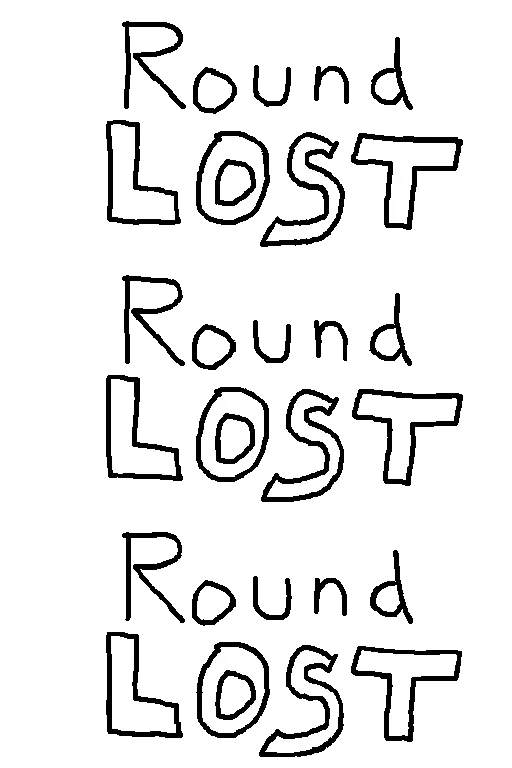
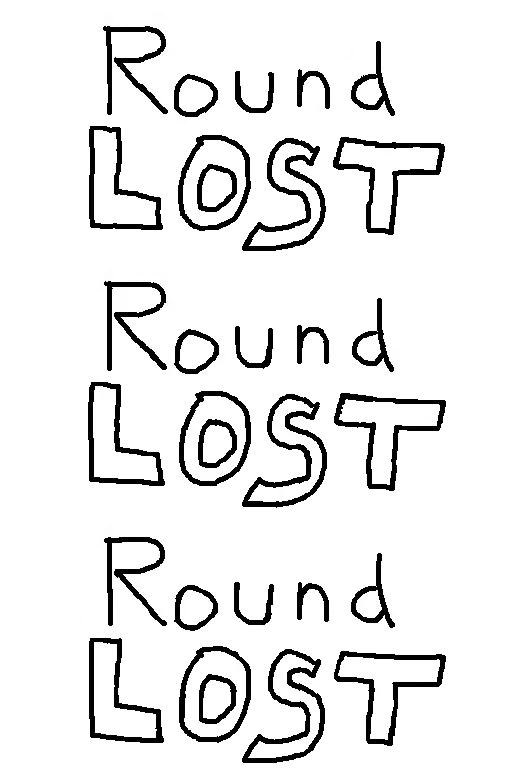
stuff

Changed region(s): [[0.1562, 0.3438, 0.9062, 0.6875], [0.1562, 0.0312, 0.9062, 0.3438], [0.1562, 0.6875, 0.9062, 1.0]]

diff --git a/src/main.js b/src/main.js
@@ -40,7 +40,7 @@ import {
 } from './audio.js';
 import { RankedClient } from './rankedClient.js';
 import { getResourcePresentation, shouldShowPickHistoryForVariant } from './variantPresentation.js';
-import { resolveReadyScene, resolveScene } from './sceneResolver.js';
+import { resolveReadyScene, resolveScene, swapScenePerspective } from './sceneResolver.js';
 import { VARIANT_SELECT_PAGE_SIZE, VARIANT_SELECT_VARIANTS } from './variantSelectConfig.js';
 import {
   DOODLE_FRAME_RATE,
@@ -1886,26 +1886,39 @@ function renderPickHistory(playerId) {
 }
 
 function renderStagePresentation() {
-  if (stagePresentation.kind === 'cue') {
+  if (stagePresentation.kind === 'overlay') {
+    return `
+      <div class="stage-presentation-stack">
+        ${renderSingleStagePresentation(stagePresentation.base)}
+        ${renderSingleStagePresentation(stagePresentation.overlay, 'result-overlay')}
+      </div>
+    `;
+  }
+
+  return renderSingleStagePresentation(stagePresentation);
+}
+
+function renderSingleStagePresentation(presentation, extraClass = '') {
+  if (presentation.kind === 'cue') {
     return `
       <canvas
-        class="sprite-canvas cue-canvas"
-        data-doodle="${stagePresentation.name}"
+        class="sprite-canvas cue-canvas ${extraClass}"
+        data-doodle="${presentation.name}"
         width="${DOODLE_FRAME_WIDTH}"
         height="${DOODLE_FRAME_HEIGHT}"
-        aria-label="${stagePresentation.name}"
+        aria-label="${presentation.name}"
       ></canvas>
     `;
   }
 
   return `
     <canvas
-      class="sprite-canvas doodle-canvas"
-      data-doodle="${stagePresentation.name}"
-      data-flip="${stagePresentation.flip}"
+      class="sprite-canvas doodle-canvas ${extraClass}"
+      data-doodle="${presentation.name}"
+      data-flip="${presentation.flip}"
       width="${DOODLE_FRAME_WIDTH}"
       height="${DOODLE_FRAME_HEIGHT}"
-      aria-label="${stagePresentation.name}"
+      aria-label="${presentation.name}"
     ></canvas>
   `;
 }
@@ -3367,7 +3380,7 @@ function renderMoveButton(move, isLegal) {
   ) && !p1QueuedMove;
 
   return `
-    <button class="move-card ${isQueued ? 'selected' : ''}" data-move="${move.id}" ${isLegal && canChooseMove && state.status === 'playing' && !isTransitioning ? '' : 'disabled'}>
+    <button class="move-card ${isQueued ? 'selected' : ''}" data-move="${move.id}" ${isLegal && canChooseMove && state.status === 'playing' && (!isTransitioning || playMode === 'online') ? '' : 'disabled'}>
       <canvas
         class="sprite-canvas move-button-art"
         data-doodle="${getMoveButtonDoodle(move.id)}"
@@ -4753,12 +4766,16 @@ function commitRankedSnapshot(snapshot, previousPhase = rankedSnapshot?.phase) {
     };
   } else if (snapshot.phase === 'revealed') {
     lastMoves = getLocalMovesFromRankedSnapshot(snapshot);
-    stagePresentation = getVariantStagePresentation(snapshot.round?.lastTurn ?? {}, lastMoves.p1, lastMoves.p2, { variantId: snapshot.currentVariantId ?? snapshot.variantId });
+    stagePresentation = getVariantStagePresentation(getLocalTurnResultFromRankedSnapshot(snapshot), lastMoves.p1, lastMoves.p2, { variantId: snapshot.currentVariantId ?? snapshot.variantId });
   } else if (snapshot.phase === 'roundOver') {
     stagePresentation = {
-      kind: 'doodle',
-      name: getRoundOverDoodle(getLocalRoundWinnerFromRankedSnapshot(snapshot), true),
-      flip: false,
+      kind: 'overlay',
+      base: getInteractionPresentation(stagePresentation),
+      overlay: {
+        kind: 'doodle',
+        name: getRoundOverDoodle(getLocalRoundWinnerFromRankedSnapshot(snapshot), true),
+        flip: false,
+      },
     };
   } else if (snapshot.phase === 'countdown') {
     stagePresentation = { kind: 'cue', name: 'READY' };
@@ -4771,9 +4788,13 @@ function commitRankedSnapshot(snapshot, previousPhase = rankedSnapshot?.phase) {
   } else if (snapshot.phase === 'gameOver') {
     finishMusicLoopThenStop();
     stagePresentation = {
-      kind: 'doodle',
-      name: snapshot.winner === snapshot.playerKey ? 'system_scenes/game_won' : 'system_scenes/game_lost',
-      flip: false,
+      kind: 'overlay',
+      base: getInteractionPresentation(stagePresentation),
+      overlay: {
+        kind: 'doodle',
+        name: snapshot.winner === snapshot.playerKey ? 'system_scenes/game_won' : 'system_scenes/game_lost',
+        flip: false,
+      },
     };
   }
 
@@ -4810,7 +4831,7 @@ function maybePlayRankedRoundResultAudio(snapshot) {
 function getRankedIdleChoosingPresentation(snapshot) {
   if (snapshot.round?.lastTurn) {
     const moves = getLocalMovesFromRankedSnapshot(snapshot);
-    return getVariantStagePresentation(snapshot.round?.lastTurn ?? {}, moves.p1, moves.p2, { variantId: snapshot.currentVariantId ?? snapshot.variantId });
+    return getVariantStagePresentation(getLocalTurnResultFromRankedSnapshot(snapshot), moves.p1, moves.p2, { variantId: snapshot.currentVariantId ?? snapshot.variantId });
   }
 
   return getIdleStagePresentation(snapshot.currentVariantId ?? snapshot.variantId);
@@ -4821,7 +4842,7 @@ function getRankedChoosingPresentation(snapshot) {
     return getIdleStagePresentation(snapshot.currentVariantId ?? snapshot.variantId);
   }
 
-  return getVariantStagePresentation(snapshot.round?.lastTurn ?? {}, lastMoves.p1, lastMoves.p2, { variantId: snapshot.currentVariantId ?? snapshot.variantId });
+  return getVariantStagePresentation(getLocalTurnResultFromRankedSnapshot(snapshot), lastMoves.p1, lastMoves.p2, { variantId: snapshot.currentVariantId ?? snapshot.variantId });
 }
 
 function getLocalStateFromRankedSnapshot(snapshot) {
@@ -4944,6 +4965,16 @@ function getLocalMovesFromRankedSnapshot(snapshot) {
     p1: moves[snapshot.playerKey],
     p2: moves[snapshot.opponentKey],
   };
+}
+
+function getLocalTurnResultFromRankedSnapshot(snapshot) {
+  const result = snapshot.round?.lastTurn ?? {};
+
+  if (snapshot.playerKey !== 'p2') {
+    return result;
+  }
+
+  return swapScenePerspective(result);
 }
 
 function submitRankedMove(moveId) {
@@ -5428,11 +5459,19 @@ function showRoundOverScene() {
   const isRoundOverInComputerFight = playMode === 'local' && screen !== 'tutorial' && !isGameOver();
 
   stagePresentation = {
-    kind: 'doodle',
-    name: getRoundOverDoodle(state.winner, isRoundOverInComputerFight),
-    flip: false,
+    kind: 'overlay',
+    base: getInteractionPresentation(stagePresentation),
+    overlay: {
+      kind: 'doodle',
+      name: getRoundOverDoodle(state.winner, isRoundOverInComputerFight),
+      flip: false,
+    },
   };
   render();
+}
+
+function getInteractionPresentation(presentation) {
+  return presentation?.kind === 'overlay' ? presentation.base : presentation;
 }
 
 function getRoundOverDoodle(winner, useRoundDoodle) {

diff --git a/src/variantSelectConfig.js b/src/variantSelectConfig.js
@@ -6,7 +6,7 @@ export const VARIANT_SELECT_VARIANTS = Object.freeze([
   Object.freeze({
     id: VARIANT_IDS.chargeBlockFireball,
     name: 'Fireball War',
-    buttonDoodle: 'fireball-war_button',
+    buttonDoodle: 'fireball-war_button_w',
     copy: Object.freeze([
       'TWO WAYS TO WIN: Land a Fireball OR Charge 3 Bars.',
       'Fireball beats Charge (Costs 1 Bar).',
@@ -28,7 +28,7 @@ export const VARIANT_SELECT_VARIANTS = Object.freeze([
   Object.freeze({
     id: VARIANT_IDS.shootStabDuck,
     name: 'Tap Tap Shoot Y',
-    buttonDoodle: 'tts-y_button',
+    buttonDoodle: 'tts-y_button_w',
     copy: Object.freeze([
       'FOUR MOVES, ONE RESOURCE. Win by landing a Shoot or Stab.',
       'Shoot beats Stab and Reload (Costs 1 Bullet).',
@@ -40,7 +40,7 @@ export const VARIANT_SELECT_VARIANTS = Object.freeze([
   Object.freeze({
     id: VARIANT_IDS.punchStabShoot,
     name: 'Gun Knife Fist',
-    buttonDoodle: 'gkf_button',
+    buttonDoodle: 'gkf_button_w',
     copy: Object.freeze([
       'ROCK PAPER SCISSORS WITH HP. First to deal 3 damage wins.',
       'Punch beats Shoot (Deals 1 damage).',
@@ -51,7 +51,7 @@ export const VARIANT_SELECT_VARIANTS = Object.freeze([
   Object.freeze({
     id: VARIANT_IDS.tapTapShoot,
     name: 'Tap Tap Shoot X',
-    buttonDoodle: 'tts-x_button',
+    buttonDoodle: 'tts-x_button_w',
     copy: Object.freeze([
       'FIVE MOVES AND LAYERED MIXUPS. Win by landing a Shoot or Stab.',
       'Shoot beats Stab, Counter-Stab, and Charge (Costs 1 AP).',

diff --git a/src/sceneResolver.js b/src/sceneResolver.js
@@ -38,6 +38,27 @@ export function resolveScene({ variantId = '', p1Move, p2Move, result = {} }) {
   return presentation(name, resolveBasicFlip(name, p1Move, p2Move, variant));
 }
 
+export function swapScenePerspective(result = {}) {
+  return {
+    ...result,
+    p1Move: result.p2Move,
+    p2Move: result.p1Move,
+    p1Hit: result.p2Hit,
+    p2Hit: result.p1Hit,
+    p1Resource: result.p2Resource,
+    p2Resource: result.p1Resource,
+    p1ResourceBefore: result.p2ResourceBefore,
+    p2ResourceBefore: result.p1ResourceBefore,
+    p1ResourceAfter: result.p2ResourceAfter,
+    p2ResourceAfter: result.p1ResourceAfter,
+    p1BulletsBefore: result.p2BulletsBefore,
+    p2BulletsBefore: result.p1BulletsBefore,
+    p1BulletsAfter: result.p2BulletsAfter,
+    p2BulletsAfter: result.p1BulletsAfter,
+    winner: result.winner === 'p1' ? 'p2' : result.winner === 'p2' ? 'p1' : result.winner,
+  };
+}
+
 export function resolveReadyScene({ sceneName, readyPlayerId, moves }) {
   if (!readyPlayerId || !sceneName || sceneName === 'shooting' || sceneName === 'stabbing') return null;
 

diff --git a/test/sceneResolver.test.js b/test/sceneResolver.test.js
@@ -8,7 +8,30 @@ import {
   getVariantStartResource,
 } from '../src/engine/moves.js';
 import { resolveTurn } from '../src/engine/resolveTurn.js';
-import { resolveReadyScene, resolveScene } from '../src/sceneResolver.js';
+import { resolveReadyScene, resolveScene, swapScenePerspective } from '../src/sceneResolver.js';
+
+test('online player two perspective keeps moves and hit result aligned', () => {
+  const serverResult = resolveTurn({
+    variantId: 'shootStabDuck',
+    p1Move: 'shoot',
+    p2Move: 'reload',
+    p1Resource: 1,
+    p2Resource: 1,
+  });
+  const localResult = swapScenePerspective(serverResult);
+  const scene = resolveScene({
+    variantId: 'shootStabDuck',
+    p1Move: 'reload',
+    p2Move: 'shoot',
+    result: localResult,
+  });
+
+  assert.deepEqual(scene, {
+    kind: 'doodle',
+    name: 'shoot-stab-duck/shoot-kill',
+    flip: true,
+  });
+});
 
 test('every variant move pairing resolves symmetrically to an existing scene', () => {
   for (const variantId of VARIANT_ORDER) {

diff --git a/src/styles.css b/src/styles.css
@@ -1058,6 +1058,27 @@ canvas {
   filter: drop-shadow(2px 4px 0 rgba(29, 27, 24, 0.08));
 }
 
+.stage-presentation-stack {
+  display: grid;
+  grid-area: 1 / 1;
+  width: 100%;
+  height: 100%;
+  place-items: center;
+}
+
+.stage-presentation-stack > canvas {
+  grid-area: 1 / 1;
+}
+
+.stage-presentation-stack .result-overlay {
+  z-index: 1;
+}
+
+.layout-slot .stage-presentation-stack {
+  position: absolute;
+  inset: 0;
+}
+
 .doodle-canvas {
   align-self: center;
 }
